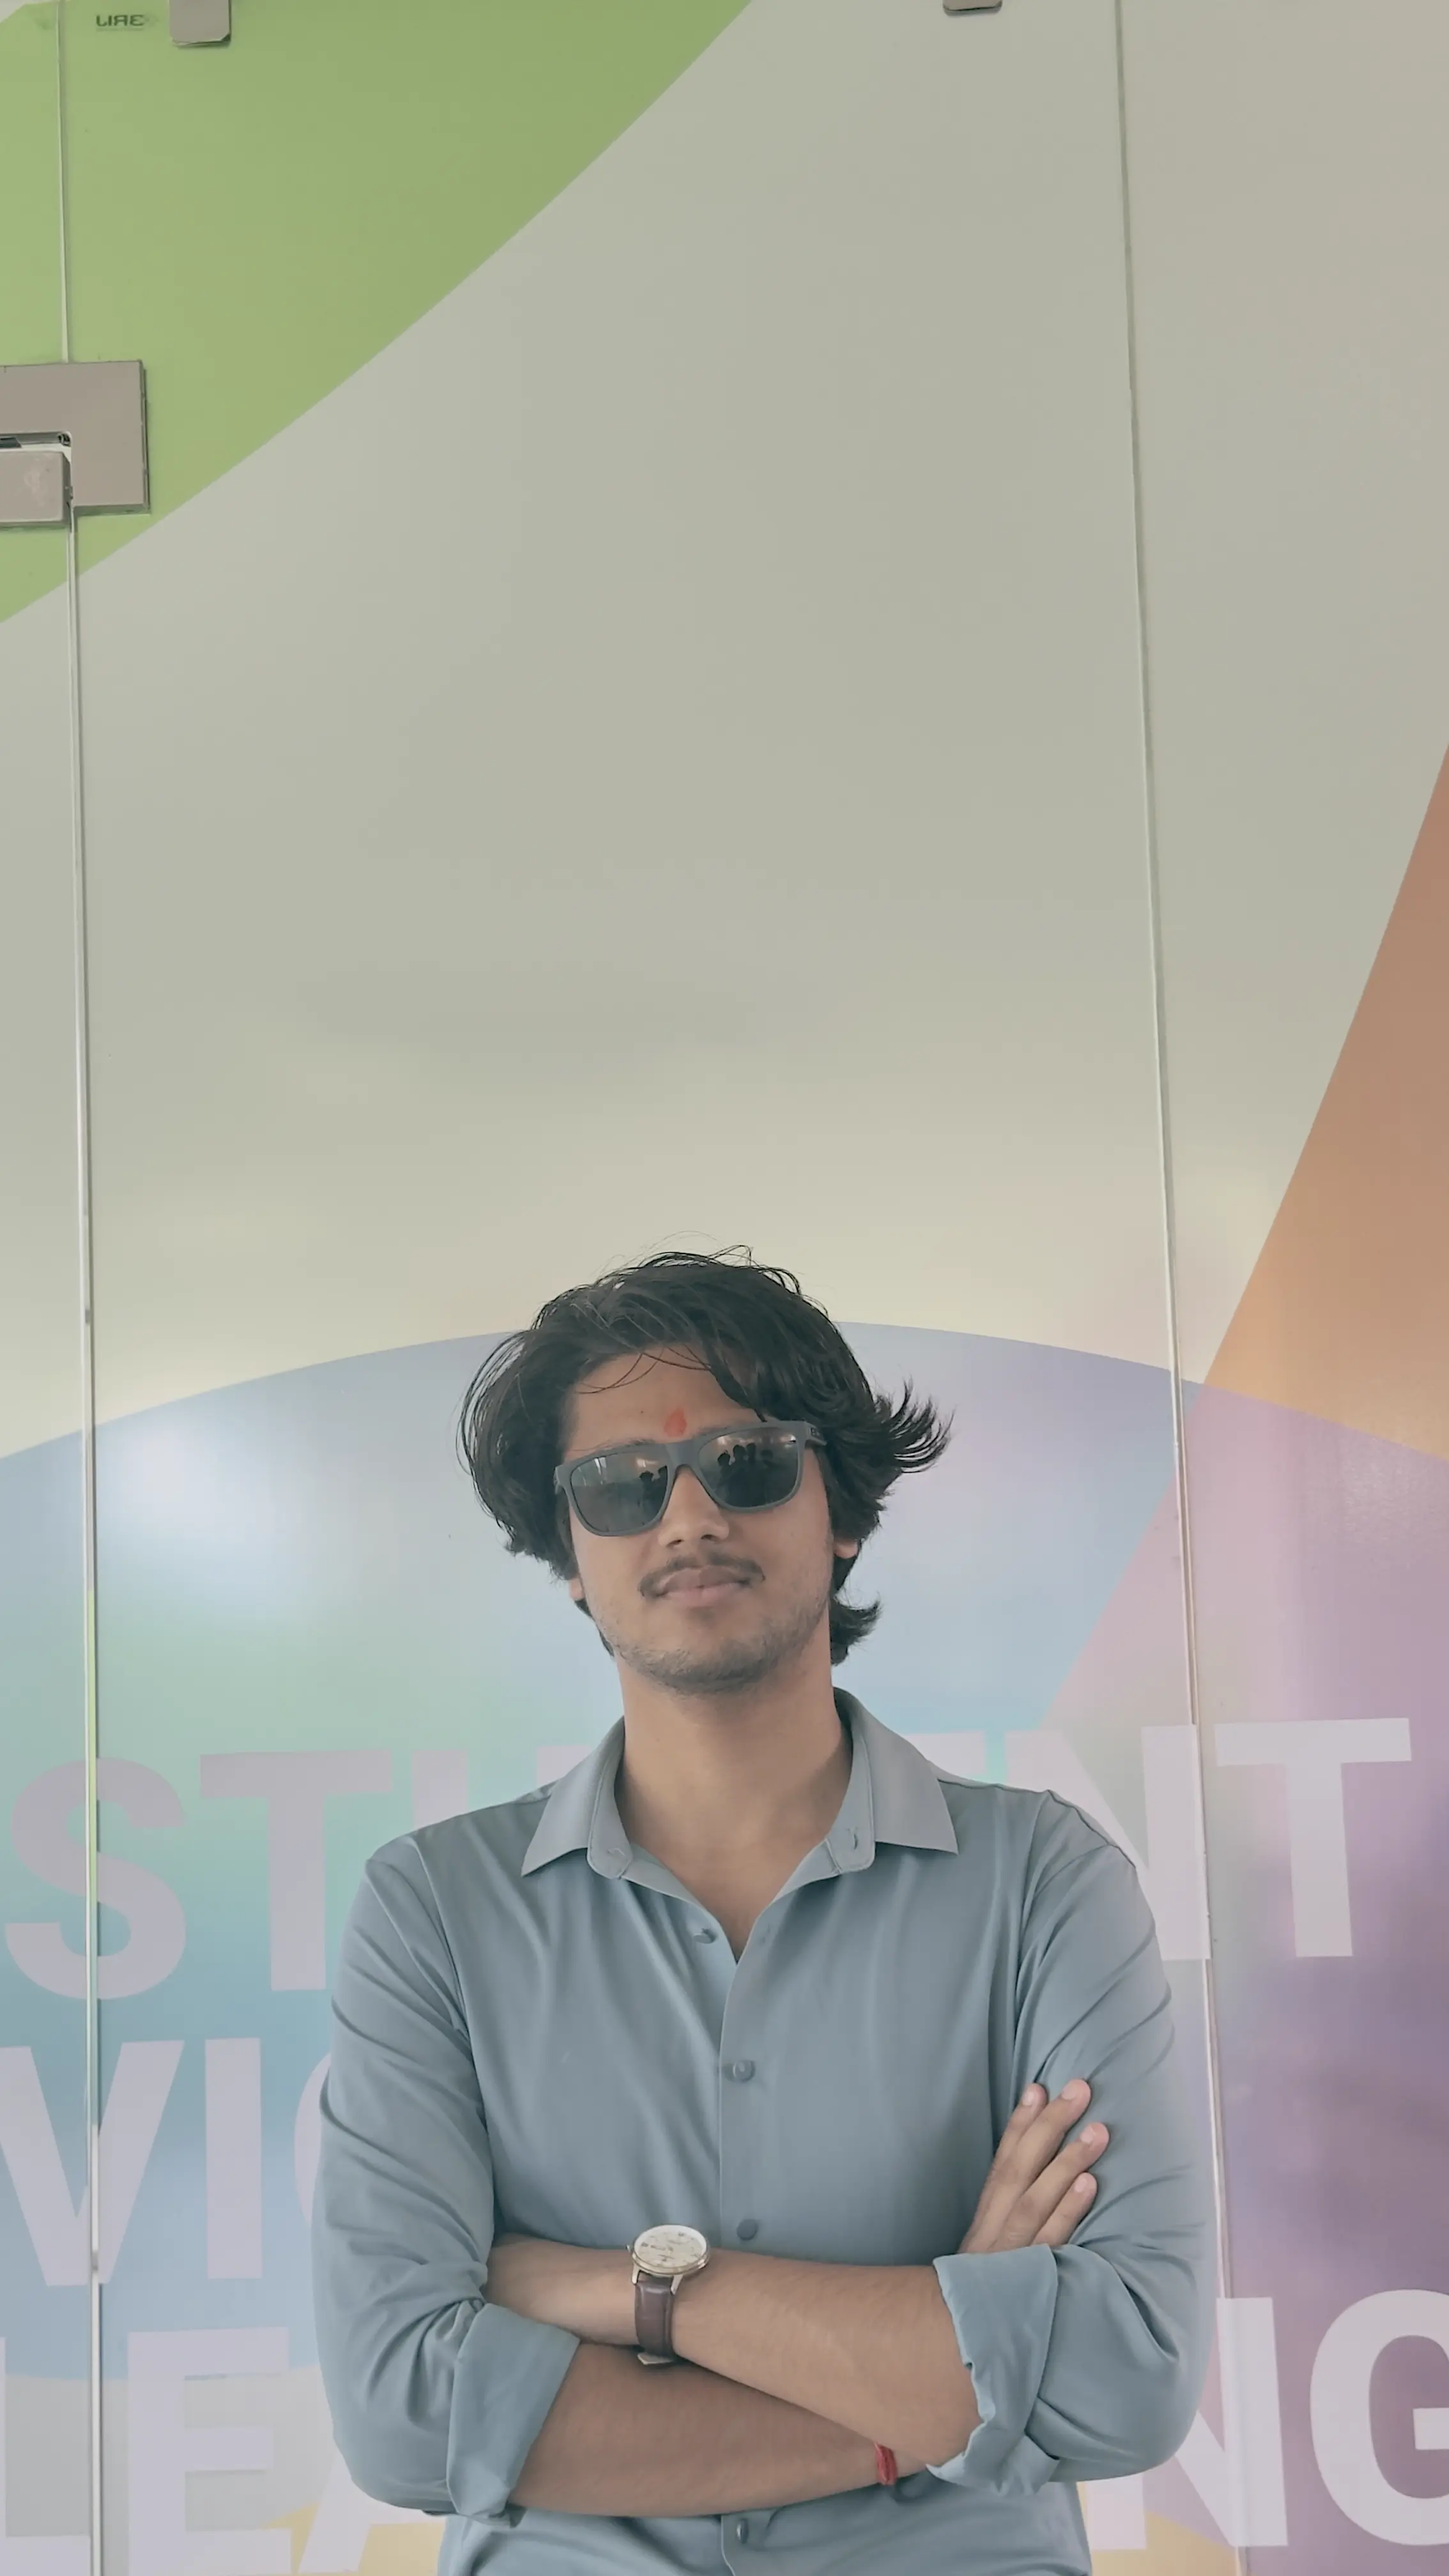
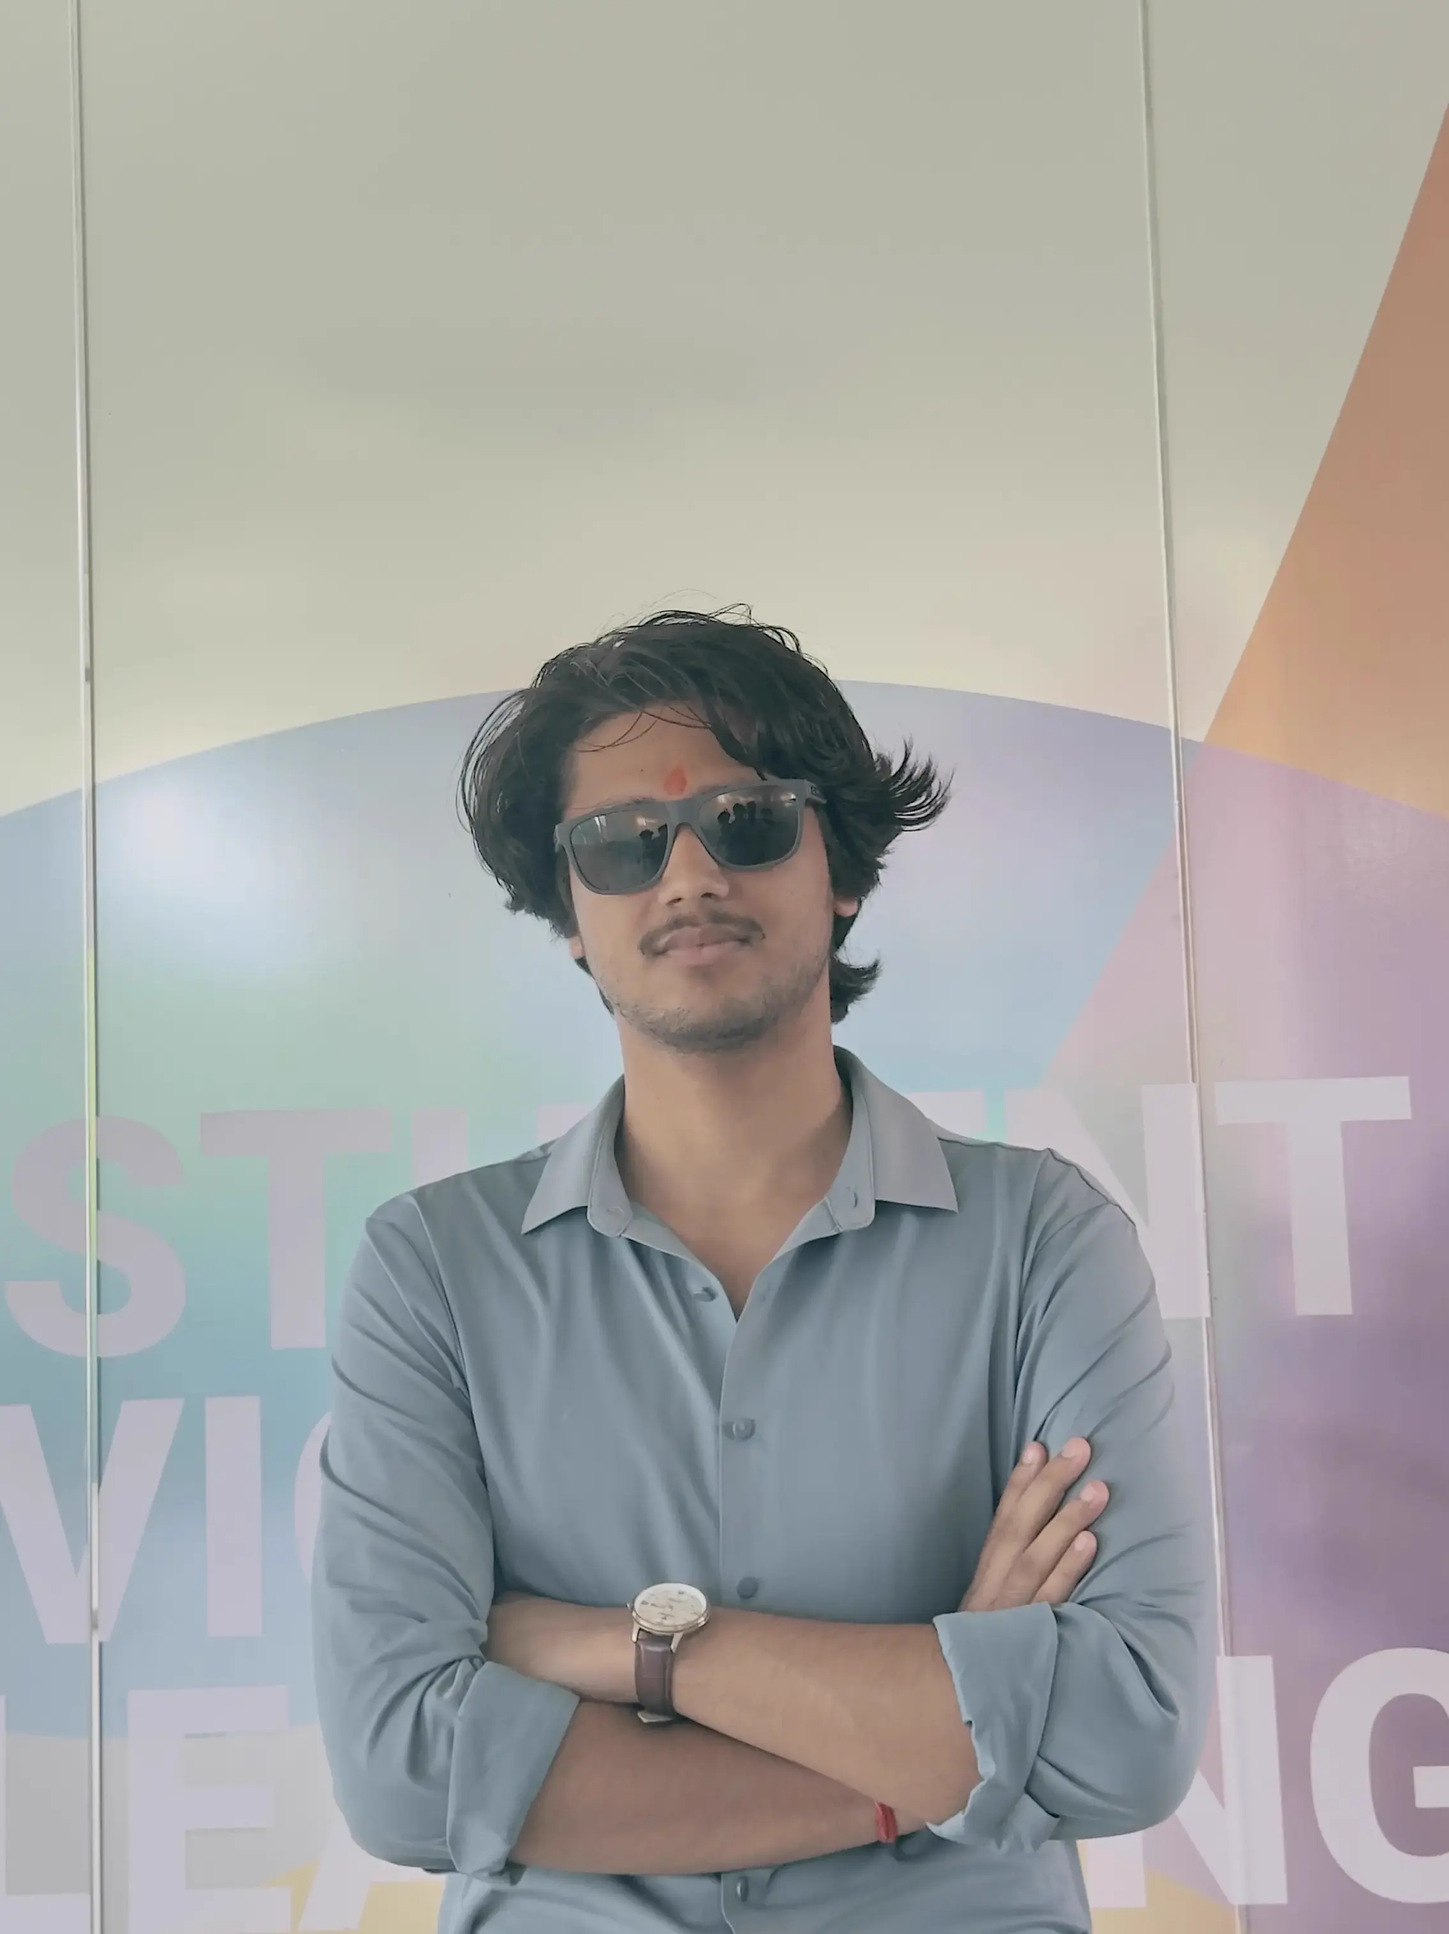
Update team member role and bio for clarity in script.js; replace image file

diff --git a/script.js b/script.js
@@ -25,10 +25,10 @@ const storyCard = document.getElementById("active-member-story");
 if (letterEls.length && storyCard) {
   const memberData = [
     {
-      role: "Creative Contributor",
+      role: "Game Architect",
       name: "Prajwal Tiwari",
       photo: "images/IMG_4715.webp",
-      bio: "A creative contributor who helped shape the project through both idea development and hands-on execution. He supported the team in refining the game’s direction, contributed to logic discussions, and helped build visual assets that gave the game its identity. His work added depth, consistency, and polish across the project from early concept to final build.",
+      bio: "Supported the team with idea development, logic discussions, and visual asset creation. His contributions helped shape the game’s identity and added polish across the project.",
     },
     {
       role: "Game Logic Architect",
